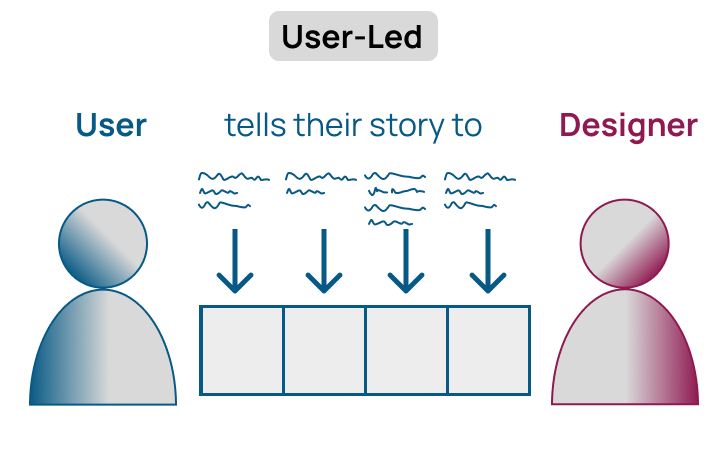
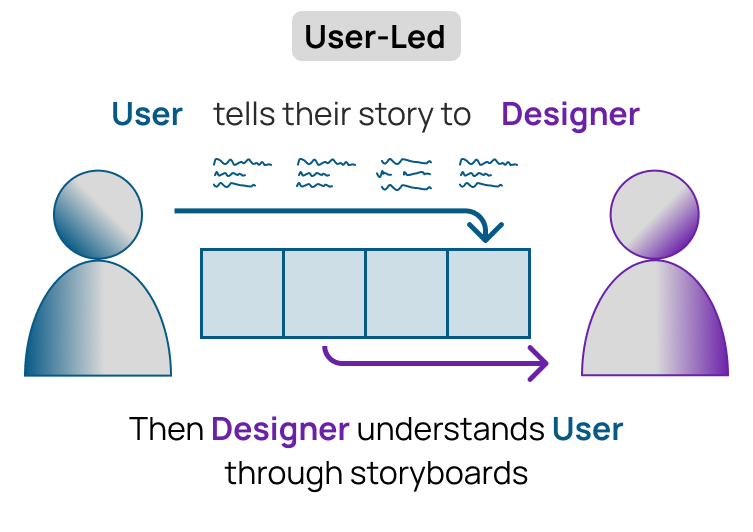
updated figures and small UI changes

diff --git a/src/components/EvaluateIntroPage.tsx b/src/components/EvaluateIntroPage.tsx
@@ -12,7 +12,7 @@ export function EvaluateIntroPage({ onBegin }: EvaluateIntroPageProps) {
   return (
     <div className="fixed inset-0 z-50 overflow-y-auto bg-gradient-to-br from-slate-50 via-white to-blue-50">
       <div className="min-h-full flex items-center justify-center px-4 sm:px-6 lg:px-8 py-6 sm:py-8">
-        <div className="relative w-full max-w-5xl bg-white rounded-3xl shadow-xl ring-1 ring-slate-200/60 p-4 sm:p-6 lg:p-8">
+        <div className="relative w-full max-w-6xl bg-white rounded-3xl shadow-xl ring-1 ring-slate-200/60 p-4 sm:p-6 lg:p-8">
           <div className="text-center">
             <span className="inline-block text-xs font-semibold tracking-[0.2em] uppercase text-blue-600">
               {copy.eyebrow}
@@ -28,16 +28,16 @@ export function EvaluateIntroPage({ onBegin }: EvaluateIntroPageProps) {
             ))}
           </div>
 
-          <div className="mt-8 grid grid-cols-1 sm:grid-cols-2 gap-4 sm:gap-6">
+          <div className="mt-8 grid w-full grid-cols-1 sm:grid-cols-2 gap-3 sm:gap-5">
             {copy.figures.map((figure) => (
               <div
                 key={figure.image}
-                className="flex items-center justify-center h-[clamp(140px,22vh,220px)] rounded-xl border border-slate-200 bg-white p-2"
+                className="flex w-full items-center justify-center h-[clamp(180px,32vh,320px)] rounded-xl border border-slate-200 bg-white px-1 py-2"
               >
                 <img
                   src={`${EVALUATE_FIGURES_BASE}${figure.image}`}
                   alt={figure.alt}
-                  className="max-w-full max-h-full object-contain"
+                  className="w-full h-full object-contain"
                 />
               </div>
             ))}

diff --git a/src/components/EvaluateSummaryPage.tsx b/src/components/EvaluateSummaryPage.tsx
@@ -107,9 +107,7 @@ function PairSummaryRow({
         </div>
       </div>
       <div className="flex min-h-0">
-        <div
-          className={`w-[37%] shrink-0 overflow-hidden border-r border-slate-100 border-2 ${leftStyles.border}`}
-        >
+        <div className="w-[37%] shrink-0 overflow-hidden border-r border-slate-100">
           {leftItem.imageSrc ? (
             <img
               src={leftItem.imageSrc}
@@ -122,9 +120,7 @@ function PairSummaryRow({
             </div>
           )}
         </div>
-        <div
-          className={`w-[37%] shrink-0 overflow-hidden border-r border-slate-100 border-2 ${rightStyles.border}`}
-        >
+        <div className="w-[37%] shrink-0 overflow-hidden border-r border-slate-100">
           {rightItem.imageSrc ? (
             <img
               src={rightItem.imageSrc}

diff --git a/src/lib/evaluateConditionStyles.ts b/src/lib/evaluateConditionStyles.ts
@@ -13,9 +13,9 @@ const USER_STYLES: EvaluateConditionStyles = {
 };
 
 const DESIGNER_STYLES: EvaluateConditionStyles = {
-  badge: 'bg-fuchsia-100 text-fuchsia-800',
-  border: 'border-fuchsia-300',
-  panelBg: 'bg-fuchsia-50/60'
+  badge: 'bg-purple-100 text-purple-800',
+  border: 'border-purple-300',
+  panelBg: 'bg-purple-50/60'
 };
 
 export function getEvaluateConditionStyles(
